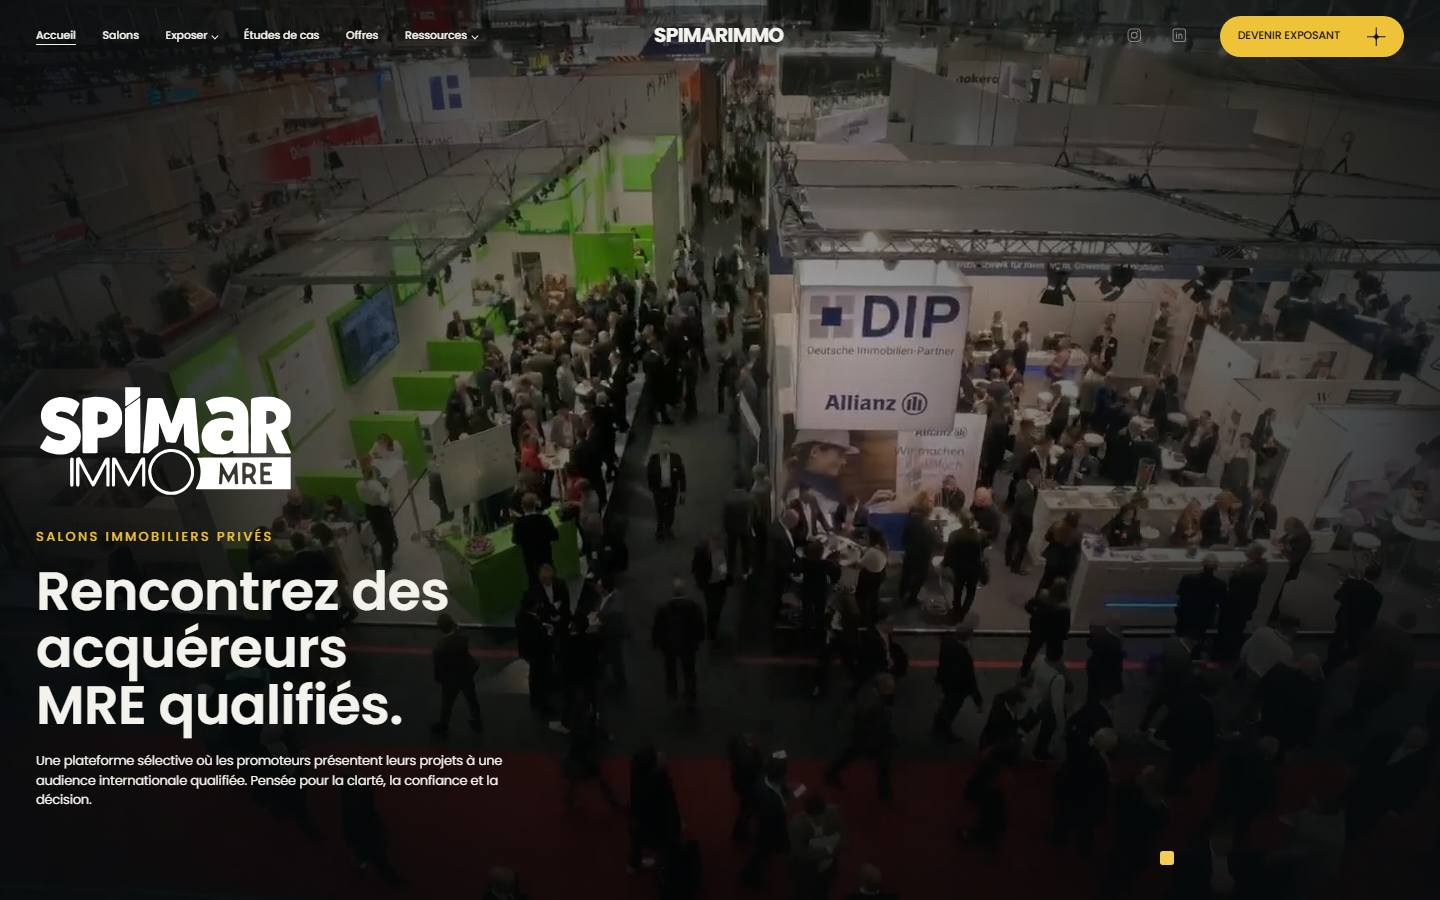
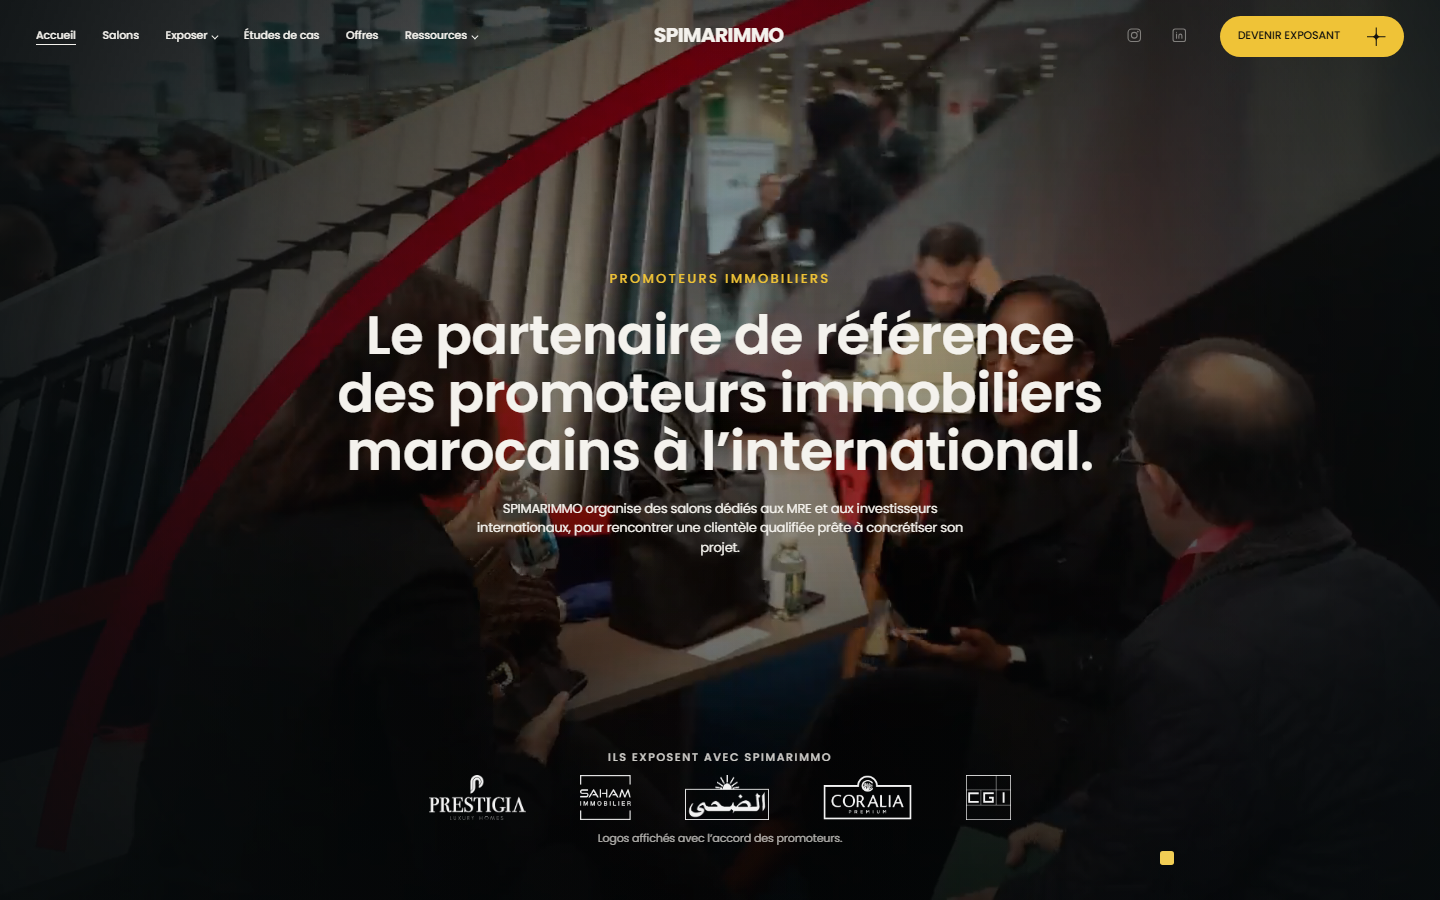
Hero: centred hierarchy, spec copy, social-proof band, no wordmark
Owner notes:
- The oversized wordmark is removed (the header already carries the
  mark) and its asset deleted.
- Eyebrow, statement and lead are centred as one optical block.
- Copy replaced with the canonical specification §06 "Hero et première
  impression": sur-titre "Promoteurs immobiliers", the reference-
  partner statement, and the MRE/investors subtitle — the mobile
  site's English pitch was a stand-in, the spec is authority.
- Social proof: the spec's "bande de confiance visible avant le
  premier défilement" as a logo band above the fold, using the same
  owner-supplied promoter marks as section 12
  (docs/assets-UX-UI/logoproof mirrored at public/promoters) and
  carrying the same consent line. Knocked to white so five brand
  palettes read as one band over the footage.

The spec's hero CTAs stay in the header per the standing owner
decision; the hero carries none.

Evidence: tsc clean, production build OK, e2e 52/52 green; captures
refreshed at qa/implementation/hero-rebuild--*.png.

Claude-Session: https://claude.ai/code/session_01AXMt3Sip3XfFbp4AdYVRzg

diff --git a/components/public/home/hero.css b/components/public/home/hero.css
@@ -70,26 +70,23 @@
   height: 1.1em;
 }
 
-/* Content column: wordmark -> eyebrow -> statement -> lead. */
+/* Centred hierarchy: eyebrow -> statement -> lead, optically centred in the
+   frame with the proof strip anchored below it. */
 .headerBigBlock .heroContent {
   position: absolute;
-  left: var(--space-gutter);
-  bottom: var(--space-xl);
+  left: 50%;
+  top: 46%;
+  translate: -50% -50%;
   z-index: var(--z-content);
   display: flex;
   flex-direction: column;
-  align-items: flex-start;
+  align-items: center;
   gap: var(--space-sm);
-  max-width: var(--measure-prose);
+  width: min(72vw, 100%);
+  padding-inline: var(--space-gutter);
+  text-align: center;
   color: var(--on-inverse);
   pointer-events: none;
-}
-
-.heroWordmark {
-  width: 18vw;
-  min-width: 150px;
-  height: auto;
-  margin-bottom: var(--space-xs);
 }
 
 .heroEyebrow {
@@ -105,9 +102,10 @@
   margin: 0;
   font-size: var(--text-h1);
   font-weight: 600;
-  line-height: 1.05;
+  line-height: 1.08;
   letter-spacing: -0.01em;
   text-wrap: balance;
+  max-width: 24ch;
 }
 
 .heroLead {
@@ -115,7 +113,65 @@
   font-size: var(--text-support);
   line-height: 1.55;
   color: var(--on-inverse);
-  max-width: 34vw;
+  max-width: 62ch;
+}
+
+/* Social proof: the spec's "bande de confiance", visible before first scroll.
+   Same logos and consent line as section 12 — never a claim they don't carry. */
+.heroProof {
+  position: absolute;
+  left: 50%;
+  bottom: var(--space-lg);
+  translate: -50% 0;
+  z-index: var(--z-content);
+  display: flex;
+  flex-direction: column;
+  align-items: center;
+  gap: var(--space-xs);
+  width: min(80vw, 100%);
+  padding-inline: var(--space-gutter);
+  text-align: center;
+  pointer-events: none;
+}
+
+.heroProofLabel {
+  margin: 0;
+  color: var(--on-inverse);
+  font-size: var(--text-base);
+  font-weight: 500;
+  letter-spacing: 0.16em;
+  text-transform: uppercase;
+  opacity: 0.85;
+}
+
+.heroProofLogos {
+  display: flex;
+  flex-wrap: wrap;
+  align-items: center;
+  justify-content: center;
+  gap: var(--space-lg);
+  list-style: none;
+  margin: 0;
+  padding: 0;
+}
+
+.heroProofLogo img {
+  width: auto;
+  height: 3.1vw;
+  min-height: 30px;
+  max-width: 11vw;
+  object-fit: contain;
+  /* The files are colour marks on transparent ground; over footage they read
+     as one confident band rather than five competing brand colours. */
+  filter: brightness(0) invert(1);
+  opacity: 0.95;
+}
+
+.heroProofConsent {
+  margin: 0;
+  color: var(--on-inverse);
+  font-size: var(--text-base);
+  opacity: 0.7;
 }
 
 /* --- Modal player ---------------------------------------------------------- */
@@ -206,25 +262,30 @@
 }
 
 @media (max-width: 1080px) {
-  .heroLead {
-    max-width: 46vw;
+  .headerBigBlock .heroContent {
+    width: min(88vw, 100%);
   }
 }
 
 @media (max-width: 580px) {
   .headerBigBlock .heroContent {
-    left: var(--space-gutter);
-    right: var(--space-gutter);
-    bottom: var(--space-lg);
-    max-width: none;
+    top: 44%;
+    width: 100%;
+    gap: var(--space-xs);
   }
 
-  .heroWordmark {
-    width: 44vw;
+  .heroProof {
+    width: 100%;
+    gap: var(--space-2xs);
   }
 
-  .heroLead {
-    max-width: none;
+  .heroProofLogos {
+    gap: var(--space-md);
+  }
+
+  .heroProofLogo img {
+    height: 5vw;
+    max-width: 22vw;
   }
 
   .heroModalPanel {

diff --git a/components/public/home/HeroSection.tsx b/components/public/home/HeroSection.tsx
@@ -1,20 +1,32 @@
+import Image from "next/image";
 import { getTranslations } from "next-intl/server";
 import { SplitTitle } from "@/components/primitives/motion/SplitTitle";
 import { HeroVideoStage } from "./HeroVideoStage";
 
 /* Hero — owner rebuild (2026-08-04, D-024).
 
-   Keeps the accepted fullscreen hero VIEW; the reference's side text columns,
-   centred logo glyph, star marks and visitor quote are removed. The white
-   SPIMARIMMO wordmark carries the brand, the copy is the mobile site's hero
-   content, and the CTA lives in the header — the hero carries none.
+   Keeps the accepted fullscreen VIEW; the reference's side text columns,
+   centred logo glyph, star marks and visitor quote are removed, and so is the
+   oversized wordmark (the header already carries the mark).
 
-   The owner-supplied exhibition footage autoplays muted behind the content
-   (manifest-declared, rights-approved); reduced motion and save-data fall
-   back to the poster through ResilientVideo. Clicking the stage opens the
-   player modal. */
+   Copy is the canonical specification §06 "Hero et première impression", not
+   the mobile site's English pitch. The CTA the spec asks for lives in the
+   header by owner decision, so the hero carries none.
+
+   The social-proof strip reuses the promoter logos that section 12 already
+   publishes, and carries the same consent line — the spec's "bande de
+   confiance visible avant le premier défilement". */
+const PROOF_LOGOS: readonly { slug: string; name: string; width: number; height: number }[] = [
+  { slug: "prestigia", name: "Prestigia", width: 500, height: 230 },
+  { slug: "saham-immobilier", name: "Saham Immobilier", width: 1200, height: 1054 },
+  { slug: "addoha", name: "Addoha", width: 200, height: 107 },
+  { slug: "coralia", name: "Coralia", width: 1136, height: 568 },
+  { slug: "cgi", name: "CGI", width: 300, height: 300 },
+];
+
 export async function HeroSection() {
   const t = await getTranslations("hero");
+  const tp = await getTranslations("promoters");
 
   return (
     <section className="headerBigBlock noMargin scrollSection">
@@ -28,12 +40,26 @@ export async function HeroSection() {
         </div>
 
         <div className="heroContent">
-          {/* eslint-disable-next-line @next/next/no-img-element -- the wordmark
-              is a vector brand mark sized by CSS, not a raster photograph. */}
-          <img alt="SPIMARIMMO" className="heroWordmark" src="/spimarimmo-wordmark-white.svg" />
           <p className="heroEyebrow">{t("eyebrow")}</p>
           <SplitTitle as="h1" className="heroTitle" text={t("title")} />
           <p className="heroLead">{t("lead")}</p>
+        </div>
+
+        <div className="heroProof">
+          <p className="heroProofLabel">{t("proofLabel")}</p>
+          <ul className="heroProofLogos" role="list">
+            {PROOF_LOGOS.map((logo) => (
+              <li key={logo.slug} className="heroProofLogo">
+                <Image
+                  alt={logo.name}
+                  height={logo.height}
+                  src={`/promoters/${logo.slug}.png`}
+                  width={logo.width}
+                />
+              </li>
+            ))}
+          </ul>
+          <p className="heroProofConsent">{tp("consent")}</p>
         </div>
       </div>
     </section>
